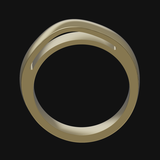
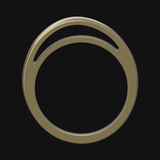
Make both split starters read at menu size
At 160 px the Split shank showed its rails' lens only at a grazing angle
and the Split gallery showed its window as a sliver seen down the bore;
both read as plain bands.

The split shank's view drops from (0, 1.35) to (0, 1.08), a look down
onto the top from in front. Its split now opens 3.2 mm between the rails
(was 2.6) over +/-56 degrees (was 48), so the lens shows daylight and each
rail still closes to a point at the shoulder. The Split-shank basket
shares the cut.

The gallery's view turns from (0.25, 0.35) to (0.15, 0.10), close to the
pull, where the window is seen straight through. Its top thickens to
2.67 at 90 degrees and 2.24 at 60 and 120 (were 2.3 and 1.85), bringing
the window back to the plan's 2.1 mm under the thicker 1.2 / 1.5 mm rails.
Both rails keep at least 0.861 mm through the side faces over 407
sections at 0.1 and 0.075 mm pitch, against Delft's 0.8, and the ring
still releases with no obstruction or unresolved ray.

Graphs, golden rows (the three split starters only) and thumbnails
regenerated through their switches; every other render reproduced byte
for byte.

Claude-Session: https://claude.ai/code/session_01DhhBfxWFhPAaJd3cVZw2HV

diff --git a/crates/ringdesign-core/src/templates/settings.rs b/crates/ringdesign-core/src/templates/settings.rs
@@ -185,7 +185,7 @@ pub fn split_doc(_d: &RingDesign) -> Result<Document> {
     let mut doc = band()?;
     doc.append(feature(2, "Open split", Operation::Builder {
         key: builders::SPLIT.into(), on: None,
-        params: json!({"theta_deg":90.0,"spread_deg":48.0,"gap_mm":2.6,"rail_round_mm":0.3,"tip":"Point"}),
+        params: json!({"theta_deg":90.0,"spread_deg":56.0,"gap_mm":3.2,"rail_round_mm":0.3,"tip":"Point"}),
     }, Attach::Cut))?;
     Ok(doc)
 }
@@ -213,7 +213,7 @@ pub fn split_gallery() -> RingDesign {
     d.profile.flatten_sides();
     d.shank.kind = ShankKind::Keyframes;
     d.shank.amount = 1.0;
-    d.shank.keys = [(270.0,1.0),(200.0,1.0),(340.0,1.0),(150.0,1.6),(30.0,1.6),(120.0,1.85),(60.0,1.85),(90.0,2.3)].map(|(theta_deg,thickness_scale)| ShankKey { theta_deg, thickness_scale, ..Default::default() }).to_vec();
+    d.shank.keys = [(270.0,1.0),(200.0,1.0),(340.0,1.0),(150.0,1.6),(30.0,1.6),(120.0,2.24),(60.0,2.24),(90.0,2.67)].map(|(theta_deg,thickness_scale)| ShankKey { theta_deg, thickness_scale, ..Default::default() }).to_vec();
     d.cad = Some(gallery_doc(&d).expect("curated gallery document"));
     d
 }

diff --git a/crates/ringdesign-core/src/templates.rs b/crates/ringdesign-core/src/templates.rs
@@ -108,13 +108,13 @@ static TEMPLATES: [Template; 13] = [
     Template {
         name: "Split shank",
         blurb: "Two open rails meet at each shoulder on a fine band; pour in lost wax.",
-        view: (0.0, 1.35),
+        view: (0.0, 1.08),
         build: settings::split_shank,
     },
     Template {
         name: "Split gallery",
         blurb: "Daylight between two arched rails along the sand pull; mould trial required.",
-        view: (0.25, 0.35),
+        view: (0.15, 0.1),
         build: settings::split_gallery,
     },
     Template {
